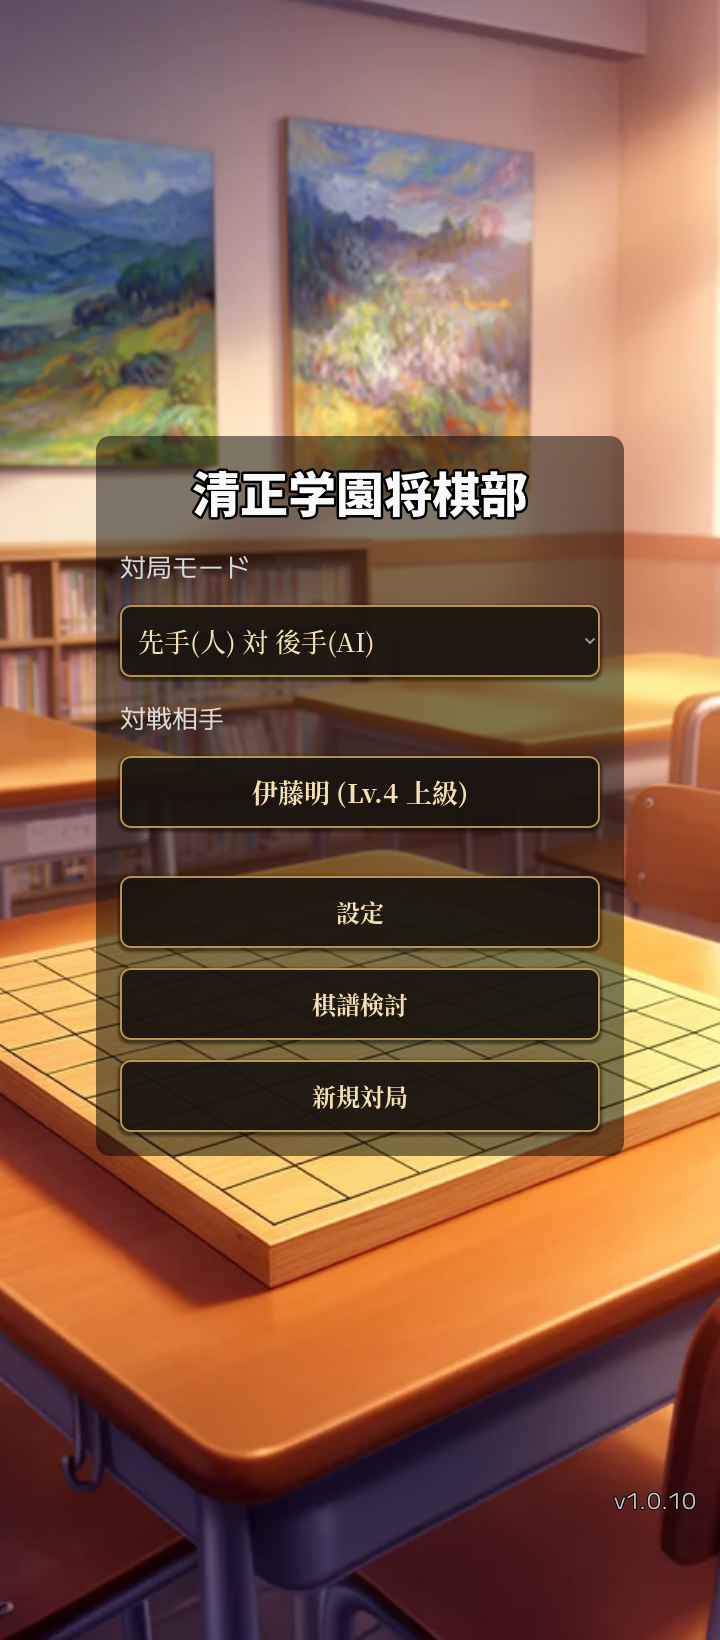
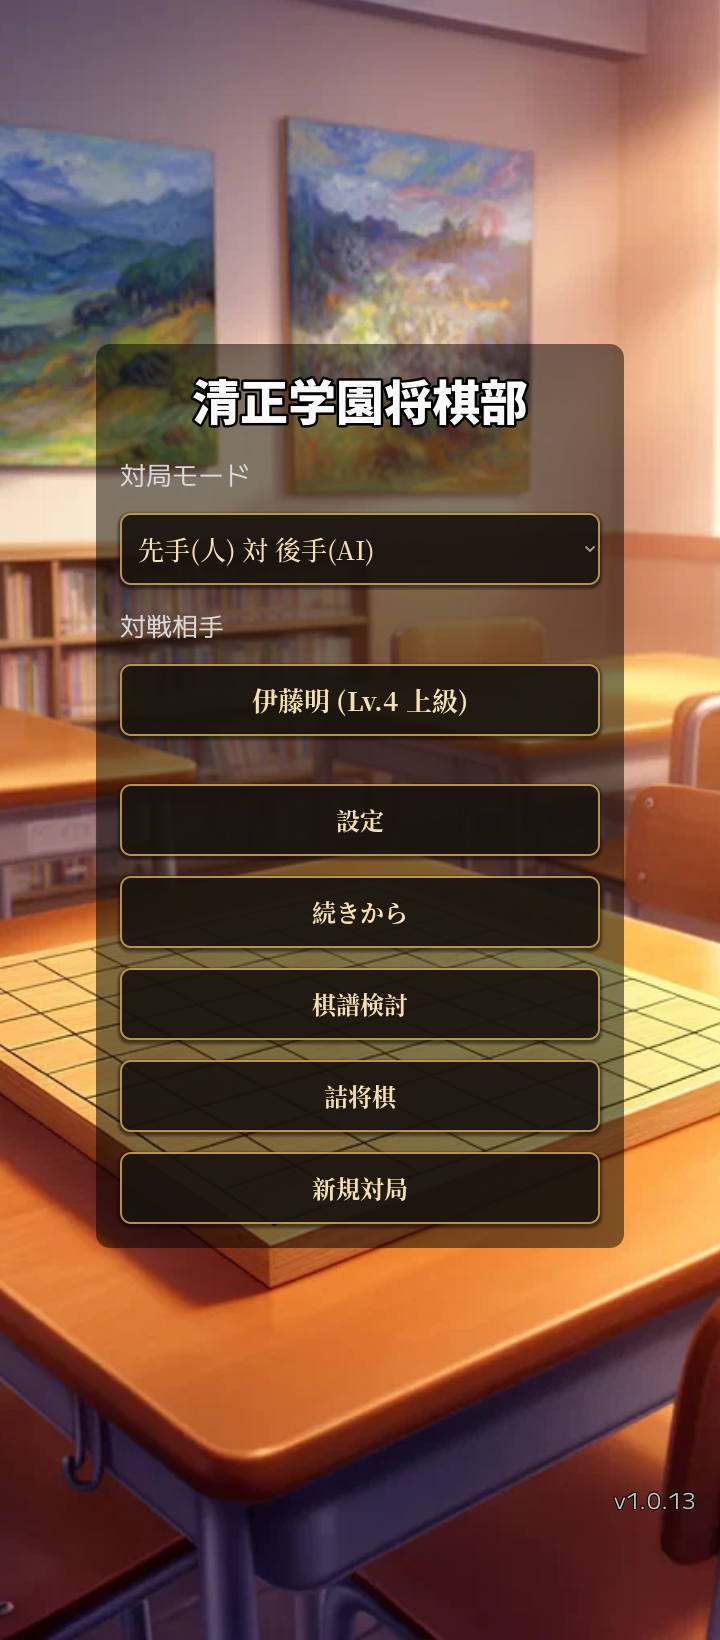
docs: refresh README screenshots for 1.0.13
Retake the title, character picker, in-game, teacher-mode and reviewer
screenshots on the 1.0.13 build (詰将棋 button, larger opponent avatar,
形勢グラフ) and add three new ones: a 詰将棋 problem, the same problem
solved, and the opponent's thinking face.

Changed region(s): [[0.1222, 0.1866, 0.8861, 0.5598], [0.1222, 0.653, 0.8861, 0.7774], [0.9472, 0.9018, 0.9778, 0.9329]]

diff --git a/README.md b/README.md
@@ -29,11 +29,15 @@ Android 7.0（API 24）以降 / arm64-v8a。Google Play ストアは方針とし
 
 | タイトル画面 | 対戦相手選択 | 対局画面 |
 |:---:|:---:|:---:|
-| <img src="docs/screenshots/01_main_menu.png" width="220" alt="タイトル画面 — 対局モード・対戦相手を選び、設定 / 続きから / 棋譜検討 / 新規対局へ進む。"> | <img src="docs/screenshots/02_character_picker.png" width="220" alt="対戦相手選択画面 — 8 人の部員・先生から指す相手を選ぶ。上半分に選択中キャラの肖像と紹介、下半分に Lv 1〜8 のグリッド。"> | <img src="docs/screenshots/03_in_game_start.png" width="220" alt="Lv 4（伊藤明）との対局序盤（7六歩 8四歩）。タイトルや見出しはポップ体 Mochiy Pop One。上部バーに対戦相手の肖像と名前、下部に「加藤先生！教えてください！」ボタンを配置。"> |
+| <img src="docs/screenshots/01_main_menu.png" width="220" alt="タイトル画面 — 対局モード・対戦相手を選び、設定 / 続きから / 棋譜検討 / 詰将棋 / 新規対局へ進む。"> | <img src="docs/screenshots/02_character_picker.png" width="220" alt="対戦相手選択画面 — 8 人の部員・先生から指す相手を選ぶ。上半分に選択中キャラの肖像と紹介、下半分に Lv 1〜8 のグリッド。"> | <img src="docs/screenshots/03_in_game_start.png" width="220" alt="Lv 4（伊藤明）との対局序盤（7六歩 3四歩）。上部バーに対戦相手の肖像と名前、下部に「加藤先生！教えてください！」ボタンを配置。肖像は対局の流れで表情が変わる。"> |
 
 | 先生モード | 棋譜検討（一覧） | 棋譜検討（解析） |
 |:---:|:---:|:---:|
-| <img src="docs/screenshots/04_teacher_mode.png" width="220" alt="先生モード — MCTS による上位 3 手の候補を勝率 % 付きで表示。"> | <img src="docs/screenshots/05_kifu_library.png" width="220" alt="棋譜検討の一覧画面 — 保存した .kif が新しい順に並び、各行に日時・対局者・結果と手数、削除ボタン。"> | <img src="docs/screenshots/06_kifu_reviewer.png" width="220" alt="棋譜検討の盤面再生 — 各手の先手勝率と分類バッジ（◎好手 / △疑問手 / ×悪手）に加え、悪手 / 疑問手なら推奨手まで表示。"> |
+| <img src="docs/screenshots/04_teacher_mode.png" width="220" alt="先生モード — MCTS による上位 3 手の候補を勝率 % 付きで表示。"> | <img src="docs/screenshots/05_kifu_library.png" width="220" alt="棋譜検討の一覧画面 — 保存した .kif が新しい順に並び、各行に日時・対局者・結果と手数、削除ボタン。"> | <img src="docs/screenshots/06_kifu_reviewer.png" width="220" alt="棋譜検討の盤面再生 — 各手の先手勝率と分類バッジ（◎好手 / △疑問手 / ×悪手）、悪手 / 疑問手なら推奨手を表示。その下の形勢グラフは各手の先手勝率を棒で示し、タップでその手へ移動できる。"> |
+
+| 詰将棋（出題） | 詰将棋（正解） | 表情の変化（思考中） |
+|:---:|:---:|:---:|
+| <img src="docs/screenshots/07_tsume_problem.png" width="220" alt="詰将棋の出題画面 — 1手詰・3手詰・5手詰のタブに解いた数、今日の一問、盤面の下にヒント / やり直し / 前後の問題ボタン。"> | <img src="docs/screenshots/08_tsume_solved.png" width="220" alt="詰将棋を解いたところ — 「正解！ 詰みです」と表示され、問題名に【済】、タブの解いた数が 1/40 に増える。"> | <img src="docs/screenshots/09_thinking_face.png" width="220" alt="AI の思考中 — 盤の右上に「思考中…」、上部バーの対戦相手が考える表情に変わっている。"> |
 
 ## 主な機能
 
